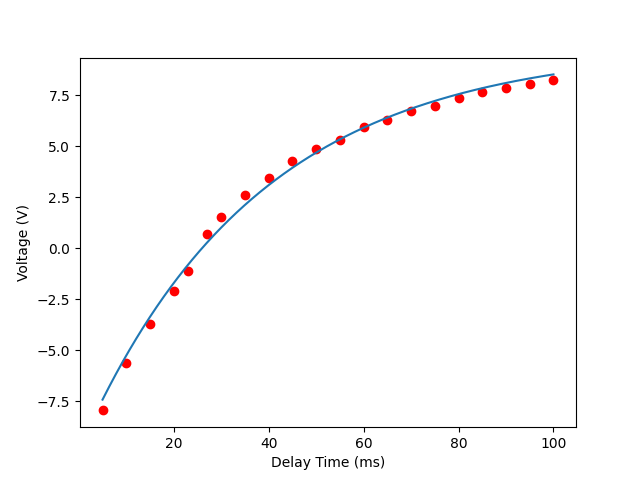
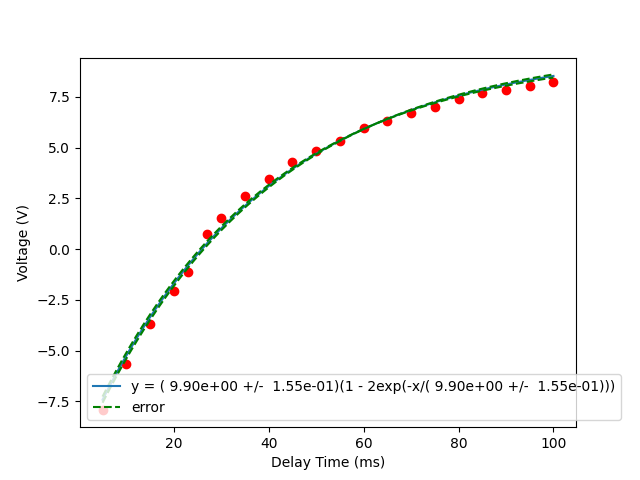
finallly done... going to kms now

diff --git a/Pulsed_NMR.py b/Pulsed_NMR.py
@@ -14,35 +14,56 @@ h = scipy.constants.h
 
 
 def exponentialFunc(x,a,b):
-    y = -a*(1-2*np.exp(-x/b))
+    y = a*(1-2*np.exp(-x/b))
     return y
 
 
-def exponentialFunc2(x,a,b,c):
-    y = a*np.exp(x/b) + c
+def exponentialFunc2(x,a,b):
+    y = a*np.exp(-x/b)
     return y
 
-def find_T1(filepath, fignum):
+def find_T1(filepath, fignum, change_units=False):
 
     plt.figure(fignum)
     df = pd.read_csv(filepath)
-    fit = curve_fit(exponentialFunc, df['Delay Time (ms)']/1000, df['Voltage (V)'],
+
+    if change_units:
+        df['Delay Time (ms)'] = df['Delay Time (ms)']/1000
+        units = 's'
+    else:
+        units = "ms"
+
+    fit = curve_fit(exponentialFunc, df['Delay Time (ms)'], df['Voltage (V)'],
                     check_finite=True)
 
     popt, pcov = fit[0], fit[1]
+    perr = np.sqrt(np.diag(pcov))
 
-    x_arr = np.linspace((df['Delay Time (ms)']/1000).min(), (df['Delay Time (ms)']/1000).max(), 1000)
+    x_arr = np.linspace(df['Delay Time (ms)'].min(), df['Delay Time (ms)'].max(), 1000)
     y_arr = exponentialFunc(x_arr, *popt)
-    plt.plot(x_arr, y_arr)
-    plt.scatter((df['Delay Time (ms)']/1000).values, df['Voltage (V)'].values, color='red')
-    plt.xlabel('Delay Time (s)')
+
+    above_err = np.array(popt) + np.abs(np.array(perr))
+    below_err = np.array(popt) - np.abs(np.array(perr))
+    y_arr_error_above = exponentialFunc(x_arr, *above_err)
+    y_arr_error_below = exponentialFunc(x_arr, *below_err)
+
+    label = f"y = ({popt[0]: .2e} +/- {perr[0]: .2e})(1 - 2exp(-x/({popt[0]: .2e} +/- {perr[0]: .2e})))"
+    plt.plot(x_arr, y_arr, label=label)
+    plt.plot(x_arr, y_arr_error_above, color='green', linestyle='--', label='error')
+    plt.plot(x_arr, y_arr_error_below, color='green', linestyle='--')
+    plt.legend()
+
+    plt.scatter(df['Delay Time (ms)'].values, df['Voltage (V)'].values, color='red')
+    plt.xlabel(f'Delay Time ({units})')
     plt.ylabel('Voltage (V)')
 
-    print(f"T1 = {popt[1]} ms")
+
+
+    print(f"T1 = {popt[1]} +/- {perr[1]} {units}")
     return y_arr
 
 
-def find_T2(filepath, fignum, cutoff=25000, argrelmax_order=1200, min_peak_height=1, windowlength_divisor=1000, min_time=0, drop_factor=2, polyorder=3):
+def find_T2(filepath, fignum, cutoff=25000, argrelmax_order=1200, min_peak_height=float(1), windowlength_divisor=1000, min_time=float(0), drop_factor=2, polyorder=3):
 
     plt.figure(fignum)
     df = pd.read_csv(filepath)
@@ -70,21 +91,21 @@ def find_T2(filepath, fignum, cutoff=25000, argrelmax_order=1200, min_peak_heigh
     # removing the right edge of the signal
     df.drop(df.tail(cutoff).index, inplace=True)
 
-    print(f"{len(df)} = length of df")
+    # print(f"{len(df)} = length of df")
 
     # setting a window length
     windowlength = int(len(df['1 (VOLT)']) / windowlength_divisor)
     if windowlength % 2 == 0:
         windowlength = windowlength - 1
 
-    print(f"{windowlength} = window length")
+    # print(f"{windowlength} = window length")
 
     filtered_signal = sig.savgol_filter(df['1 (VOLT)'], window_length=windowlength, polyorder=polyorder)
     filtered_signal = np.array(filtered_signal)
     time = np.array(df['Time (s)'])
 
-    plt.scatter(time, df['1 (VOLT)'])
-    plt.plot(df['Time (s)'], filtered_signal, c='red')
+    plt.scatter(time, df['1 (VOLT)'], label='oscilloscope trace data', s=0.1)
+    plt.plot(df['Time (s)'], filtered_signal, c='red', label='smoothed signal')
     plt.xlabel('Time (s)')
     plt.ylabel('Height (V)')
 
@@ -98,63 +119,71 @@ def find_T2(filepath, fignum, cutoff=25000, argrelmax_order=1200, min_peak_heigh
             intlist.append(i)
 
     peaks = np.delete(peaks, intlist)
-    print(f"{len(peaks)} peaks")
+    # print(f"{len(peaks)} peaks")
 
     plt.scatter(time[peaks], filtered_signal[peaks], c='purple')
 
-    fit = curve_fit(exponentialFunc2, time[peaks], filtered_signal[peaks], p0=[4.6, .04, 0])
+    fit = curve_fit(exponentialFunc2, time[peaks], filtered_signal[peaks], p0=[4.6, .04])
     popt, pcov = fit[0], fit[1]
     perr = np.sqrt(np.diag(pcov))
 
     x_arr = np.linspace(min_time, time[-1], 1000)
     y_arr = exponentialFunc2(x_arr, *popt)
 
+    error_above = np.array(popt) + np.abs(np.array(perr))
+    error_below = np.array(popt) - np.abs(np.array(perr))
+
+    y_above = exponentialFunc2(x_arr, *error_above)
+    y_below = exponentialFunc2(x_arr, *error_below)
+
     label = f"y = ({popt[0]: .2e} +/- {perr[0]: .2e})exp(-x/({popt[0]: .2e} +/- {perr[0]: .2e})"
     plt.plot(x_arr, y_arr, linestyle='--', label=label, color='orange')
+    plt.plot(x_arr, y_above, color='green', linestyle='-.', label='error')
+    plt.plot(x_arr, y_below, color='green', linestyle='--')
     plt.legend()
 
-    print(f"T2 = {popt[1]*1000} ms")
-    print(popt, perr)
+    print(f"T2 = {popt[1]*1000} ms +/- {perr[1]*1000} ms")
+    # print(popt, perr)
 
 if __name__ == '__main__':
     fignum = 1
-    find_T1('Data/Pulsed NMR Data/Water/WaterT1.csv', fignum)
-    # fignum += 1
+    find_T1('Data/Pulsed NMR Data/Water/WaterT1.csv', fignum, change_units=True)
+    fignum += 1
 
-    # find_T1("Data/Pulsed NMR Data/Mineral Oil/Mineral Oil T1.csv", fignum)
-    # fignum += 1
-    #
-    # find_T1("Data/Pulsed NMR Data/Light Mineral Oil/Light Mineral Oil T1.csv", fignum)
-    # fignum += 1
-    #
-    # find_T1("Data/Pulsed NMR Data/Glycerin/glycerin_T1.csv", fignum)
-    # fignum += 1
-    #
-    # find_T1("Data/Pulsed NMR Data/point1MCuSO4/01MCuSO4_T1.csv", fignum)
-    # fignum += 1
-    #
-    # find_T1("Data/Pulsed NMR Data/wonMCuSO4/wonMCuSO4_T1.csv", fignum)
-    # fignum += 1
-    #
-    # find_T2("Data/Pulsed NMR Data/Mineral Oil/MineralOilT2.csv", fignum, 25000, min_time=0.01)
-    # fignum += 1
-    #
-    # find_T2("Data/Pulsed NMR Data/Water/WaterT2Data_Cleaned.csv", fignum,
-    #         0, argrelmax_order=1200, drop_factor=4, windowlength_divisor=3000, polyorder=5, min_peak_height=0.7)
-    # fignum += 1
-    #
-    # find_T2("Data/Pulsed NMR Data/Light Mineral Oil/Light Mineral Oil Trace.csv", fignum, cutoff=50000, min_time=0.01)
-    # fignum += 1
-    #
-    # find_T2("Data/Pulsed NMR Data/Glycerin/Glycerin T2 Trace.csv", fignum, argrelmax_order=500, min_peak_height=0.8)
-    # fignum += 1
-    #
-    # find_T2("Data/Pulsed NMR Data/point1MCuSO4/01MCuSO4_trace.csv", fignum,
-    #         argrelmax_order=2000, drop_factor=8, min_peak_height=0.1, windowlength_divisor=60, polyorder=3)
-    # fignum += 1
-    #
-    # find_T2("Data/Pulsed NMR Data/wonMCuSO4/wonMCuSO4_T2_trace.csv", fignum,
-    #         25000, windowlength_divisor=50, min_peak_height=1.5, drop_factor=6,argrelmax_order=1500)
+    find_T1("Data/Pulsed NMR Data/Mineral Oil/Mineral Oil T1.csv", fignum)
+    fignum += 1
+
+    find_T1("Data/Pulsed NMR Data/Light Mineral Oil/Light Mineral Oil T1.csv", fignum)
+    fignum += 1
+
+    find_T1("Data/Pulsed NMR Data/Glycerin/glycerin_T1.csv", fignum)
+    fignum += 1
+
+    find_T1("Data/Pulsed NMR Data/point1MCuSO4/01MCuSO4_T1.csv", fignum)
+    fignum += 1
+
+    find_T1("Data/Pulsed NMR Data/wonMCuSO4/wonMCuSO4_T1.csv", fignum)
+    fignum += 1
+
+    find_T2("Data/Pulsed NMR Data/Mineral Oil/MineralOilT2.csv", fignum, 25000, min_time=0.01)
+    fignum += 1
+
+    find_T2("Data/Pulsed NMR Data/Water/WaterT2Data_Cleaned.csv", fignum,
+            0, argrelmax_order=1200, drop_factor=4, windowlength_divisor=3000, polyorder=5, min_peak_height=0.7)
+    fignum += 1
+
+    find_T2("Data/Pulsed NMR Data/Light Mineral Oil/Light Mineral Oil Trace.csv", fignum, cutoff=50000, min_time=0.01)
+    fignum += 1
+
+    find_T2("Data/Pulsed NMR Data/Glycerin/Glycerin T2 Trace.csv", fignum, argrelmax_order=500, min_peak_height=0.8)
+    fignum += 1
+
+    find_T2("Data/Pulsed NMR Data/point1MCuSO4/01MCuSO4_trace.csv", fignum,
+            argrelmax_order=2000, drop_factor=8, min_peak_height=0.1, windowlength_divisor=60, polyorder=3)
+    fignum += 1
+
+    find_T2("Data/Pulsed NMR Data/wonMCuSO4/wonMCuSO4_T2_trace.csv", fignum,
+            25000, windowlength_divisor=50, min_peak_height=1.5, drop_factor=6,argrelmax_order=1500)
 
     for fig in range(1, fignum+1):
         plt.figure(fig)
